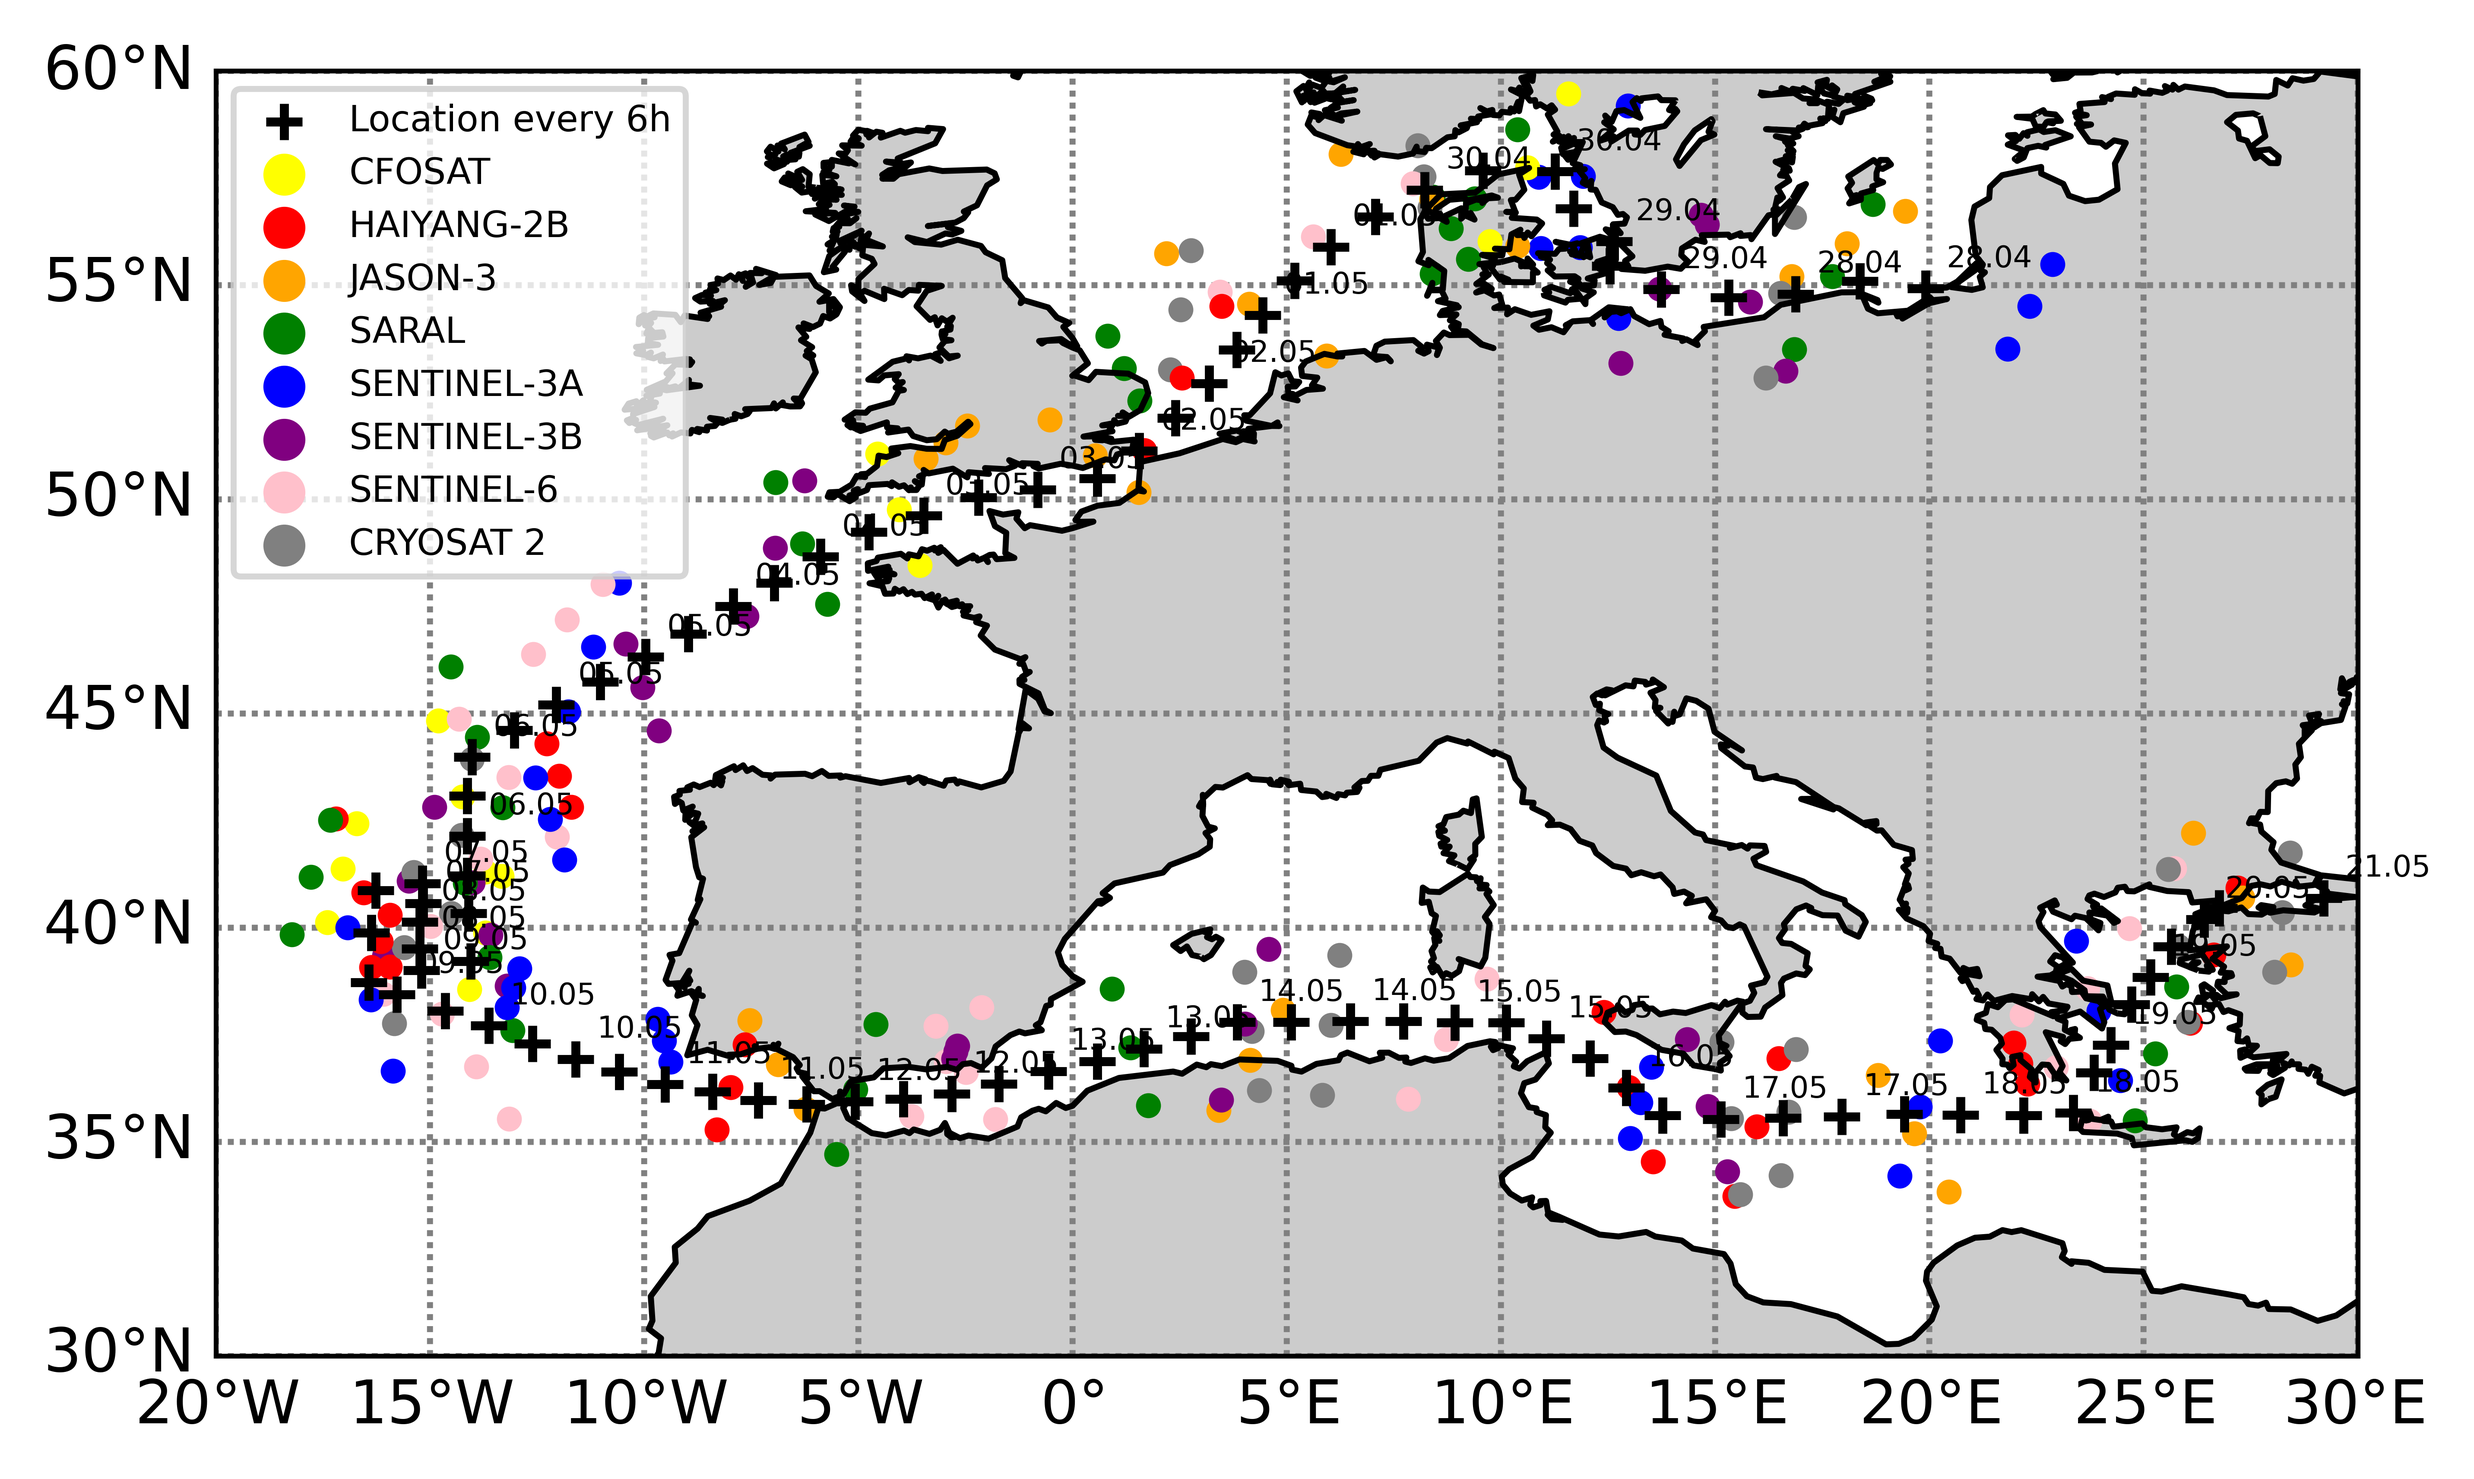
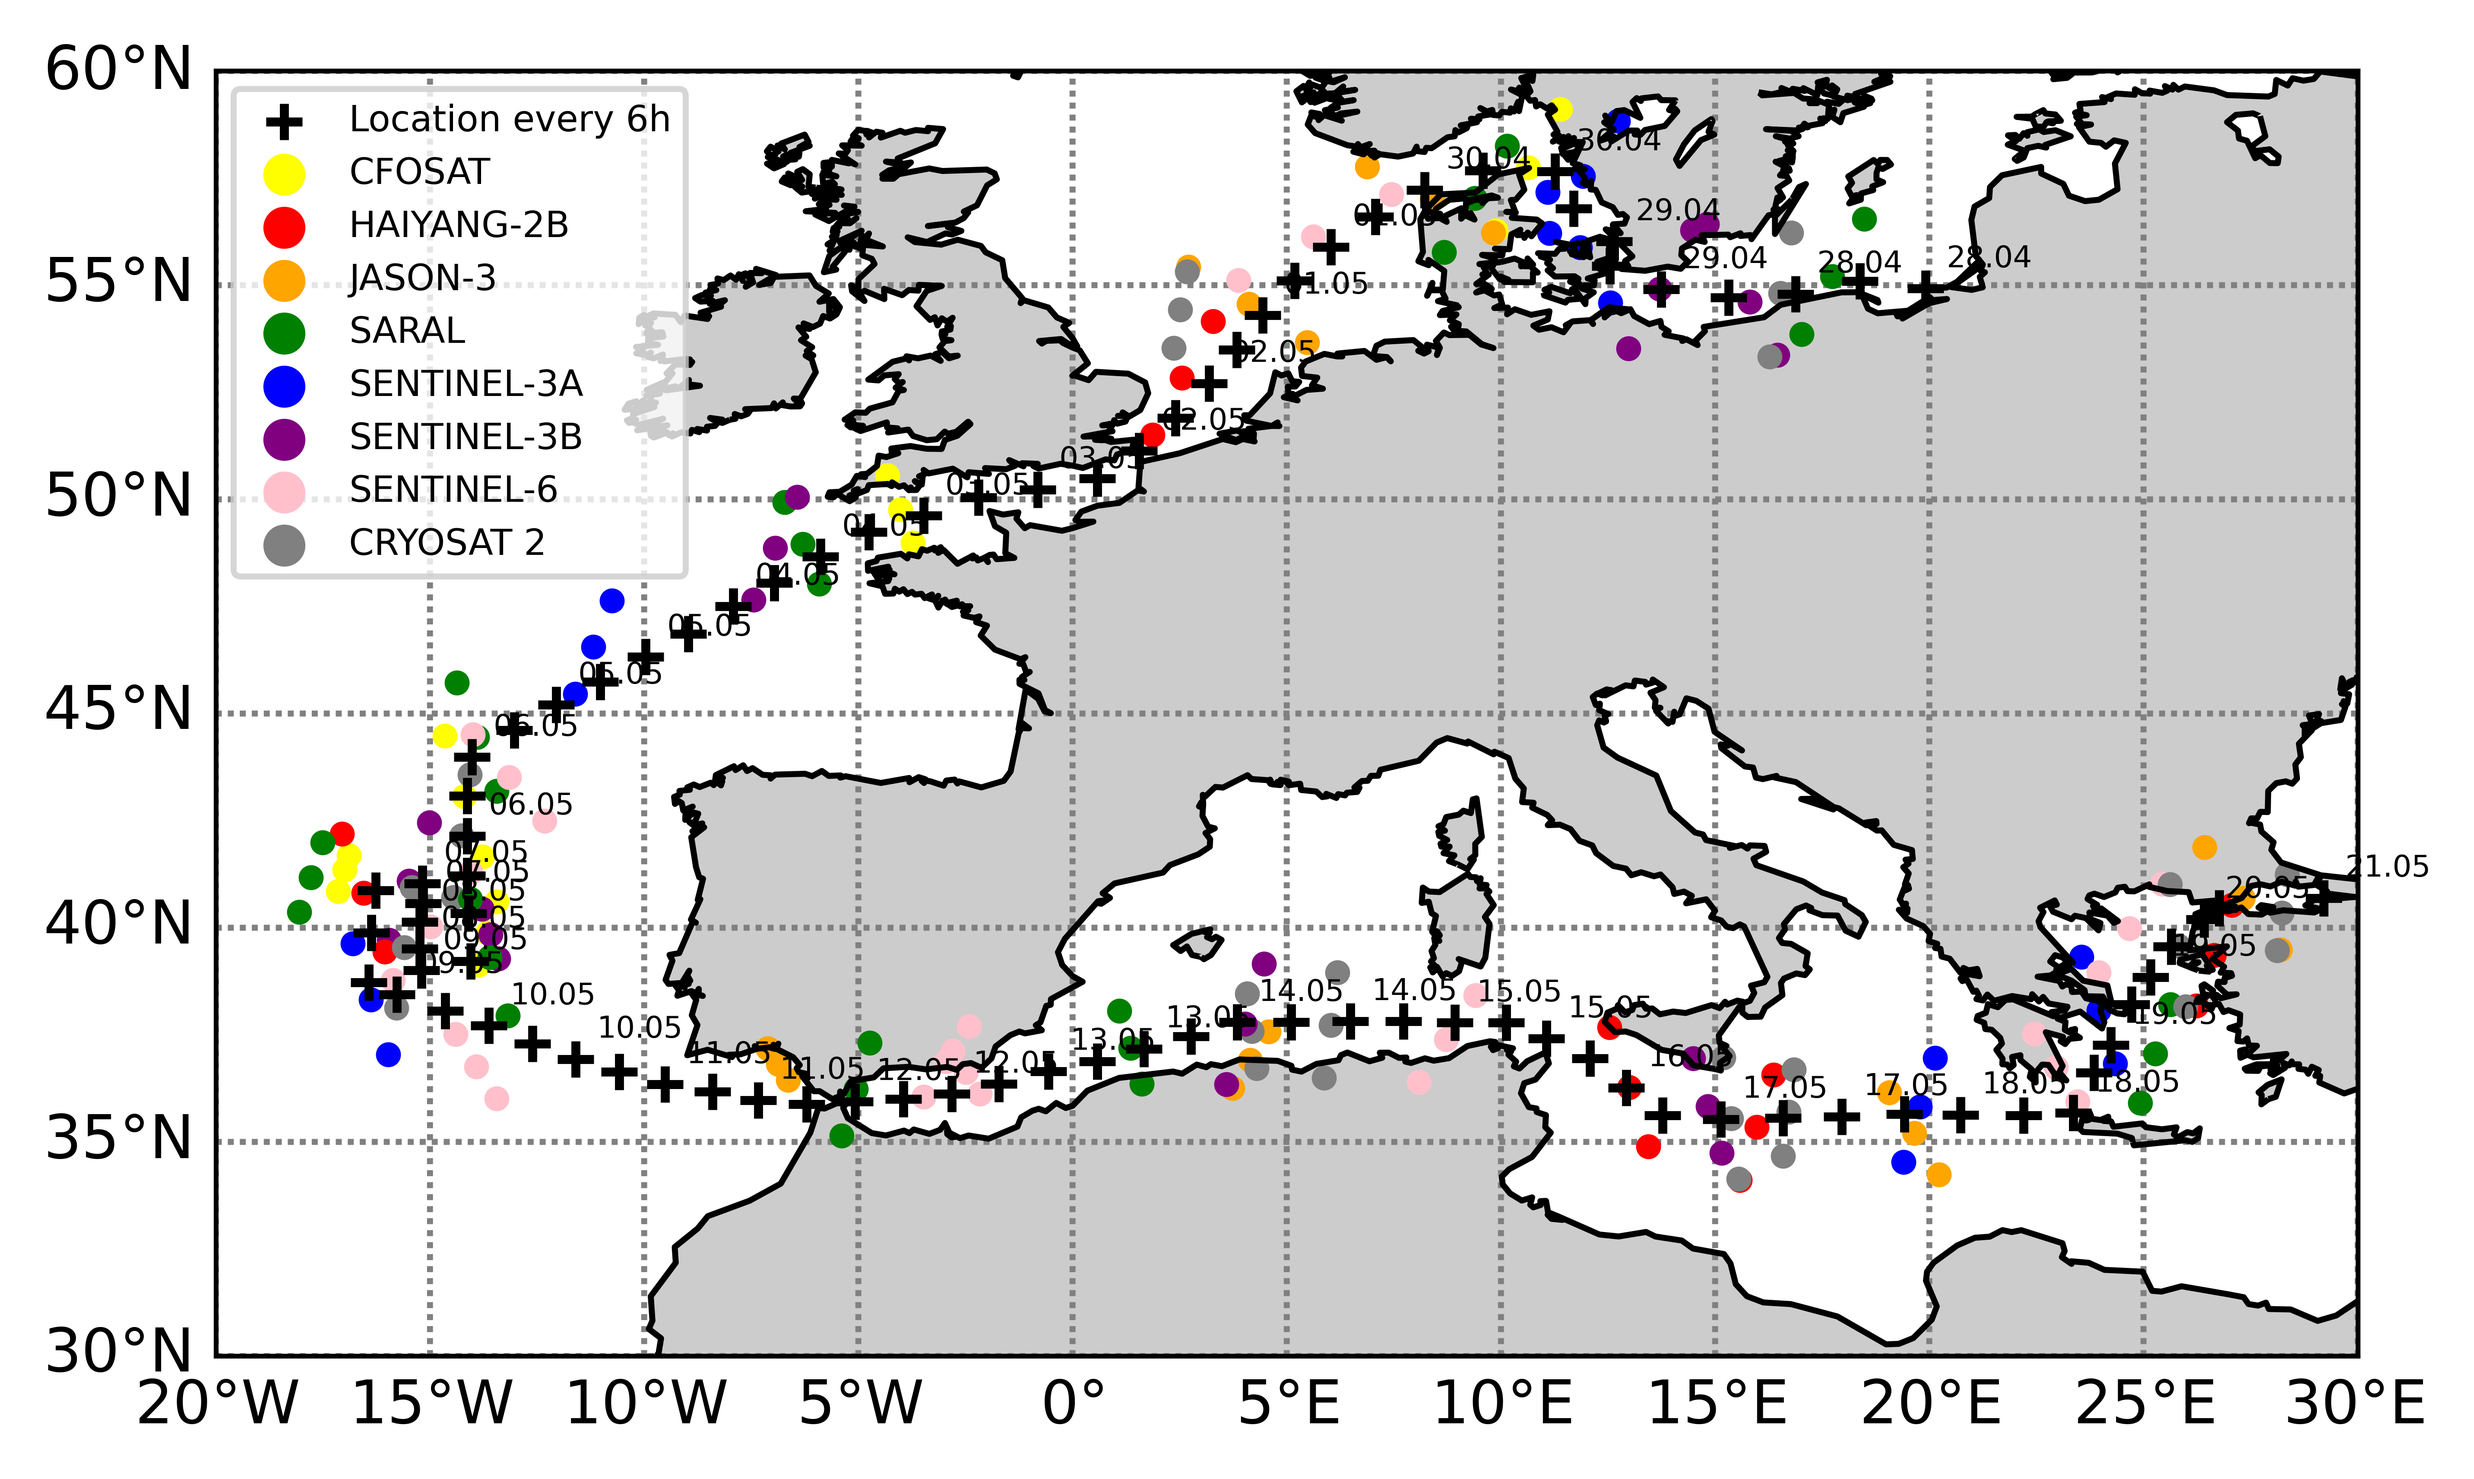
change txt data format

diff --git a/FlyForecast/forecast.py b/FlyForecast/forecast.py
@@ -11,12 +11,12 @@ from drawers import *
 from converters import *
 
 # ПЕРЕМЕННЫЕ НИЖЕ НЕОБХОДИМО ПОДОГНАТЬ ПОД СВОИ ЗАДАЧИ
+START_TIME = dt.datetime(2023, 4, 28, 8, 0, 0, tzinfo=dt.timezone.utc)  # время старта расчета
 TRACK_FILE = "track/asv55.kml"
 SCHEDULE_FILE = "schedule_asv55.xlsx"
 SPEED = 9  # предполагаемая скорость в узлах
-START_TIME = dt.datetime(2023, 4, 28, 8, 0, 0, tzinfo=dt.timezone.utc)  # время старта расчета
 END_TIME = 23  # количество суток расчета
-MAX_DISTANCE = 200  # максимальное расстояние по поверхности между треком судна и спутника в километрах
+MAX_DISTANCE = 160  # максимальное расстояние по поверхности между треком судна и спутника в километрах
 
 plt.figure()
 # для отрисовки карты нужно указать крайние наносимые координаты
@@ -41,19 +41,24 @@ if KML_OR_TXT:
     track_df = pd.DataFrame(geo_df)["geometry"]
     station_pos_ll = np.array([wgs84.latlon(track_df[i].y, track_df[i].x) for i in range(track_df.shape[0] - 1)])
     track_time = calc_time(track_df, START_TIME, speed=SPEED)
+    draw_coords(map, track_lat=[ll.latitude.degrees for ll in station_pos_ll],
+                track_lon=[ll.longitude.degrees for ll in station_pos_ll], track_buoy=np.ones(len(station_pos_ll)),
+                color1='white', color2='black', track_time=track_time)
 
 else:
     # загрузка координат из txt, который мы забили руками
-    station_pos_ = np.loadtxt("track/chain_east.txt", delimiter=' ')
-    station_pos = np.zeros((station_pos_.shape[0], 2))
-    station_pos[:, 0] = (station_pos_[:, 0] + station_pos_[:, 1] / 60)
-    station_pos[:, 1] = (station_pos_[:, 2] + station_pos_[:, 3] / 60)
+    df = pd.read_csv(TRACK_FILE, sep=" ")
+    station_pos = np.zeros((df.shape[0], 2))
+    station_pos[:, 0] = np.sign(df["lat_deg"].to_numpy()) * (
+            np.abs(df["lat_deg"].to_numpy()) + df["lat_min"].to_numpy() / 60)
+    station_pos[:, 1] = np.sign(df["lon_deg"].to_numpy()) * (
+            np.abs(df["lon_deg"].to_numpy()) + df["lon_min"].to_numpy() / 60)
     station_pos_ll = np.array([wgs84.latlon(ll[0], ll[1]) for ll in station_pos])
 
-# отрисовка станций
-draw_coords(map, track_lat=[ll.latitude.degrees for ll in station_pos_ll],
-            track_lon=[ll.longitude.degrees for ll in station_pos_ll], track_buoy=np.ones(len(station_pos_ll)),
-            color1='white', color2='black', track_time=track_time)
+    # отрисовка станций
+    draw_coords(map, track_lat=[ll.latitude.degrees for ll in station_pos_ll],
+                track_lon=[ll.longitude.degrees for ll in station_pos_ll], track_buoy=np.ones(len(station_pos_ll)),
+                color1='white', color2='black')  # , track_time=track_time
 colors = ['yellow', 'red', 'orange', 'green', 'blue', 'purple', 'pink', 'grey']
 color_rgd = ['FFFF00', 'FF0000', 'FF8000', '009900', '0080FF', '7F00FF', 'FFCCFF', 'C0C0C0']
 
@@ -68,8 +73,12 @@ for n in range(station_pos_ll.shape[0] - 1):  # цикл по станциям
     res_list.append([])
 
     if not KML_OR_TXT:
-        time1 = ts.from_datetime(START_TIME)
-        time2 = ts.from_datetime(START_TIME + dt.timedelta(days=END_TIME))
+        time1 = dt.datetime.strptime(df["date_time"][n], '%Y-%m-%d_%H-%M')
+        time1 = time1.replace(tzinfo=dt.timezone.utc)
+        time1 = ts.from_datetime(time1)
+        time2 = dt.datetime.strptime(df["date_time"][n + 1], '%Y-%m-%d_%H-%M')
+        time2 = time2.replace(tzinfo=dt.timezone.utc)
+        time2 = ts.from_datetime(time2)
     else:
         time1 = ts.from_datetime(track_time[n])
         time2 = ts.from_datetime(track_time[n + 1])
@@ -102,8 +111,9 @@ for n in range(station_pos_ll.shape[0] - 1):  # цикл по станциям
 
     res_list[n] = sorted(res_list[n], key=lambda x: x['time'])
 
-res_sheet = prepare_sheet(START_TIME, END_TIME)
-convert_list(SCHEDULE_FILE, res_sheet, res_list)
+if KML_OR_TXT:
+    res_sheet = prepare_sheet(START_TIME, END_TIME)
+    convert_list(SCHEDULE_FILE, res_sheet, res_list)
 
 # отрисовка легенды
 for i in range(len(sat_names)):

diff --git a/src/drawers.py b/src/drawers.py
@@ -25,7 +25,7 @@ def draw_grid(m: Basemap, lat_step, lon_step):
 
 
 def draw_coords(m: Basemap, track_lat: list, track_lon: list, track_buoy: np.ndarray, color1: str,
-                color2: str, track_time=None):
+                color2: str, track_time=[-1]):
     """
     Отрисовывает трек на карте
     :param m: карта
@@ -37,12 +37,13 @@ def draw_coords(m: Basemap, track_lat: list, track_lon: list, track_buoy: np.nda
     """
     xpt, ypt = m(track_lon * track_buoy, track_lat * track_buoy)
     m.scatter(xpt, ypt, color=color2, label='Location every 6h', zorder=10, marker='+')
-    for i in range(len(track_time)):
-        if i % 2 == 0:
-            x, y = m(track_lon[i] + 0.5, track_lat[i] + 0.5)
-        # else:
-        #     x, y = m(track_lon[i] - 0.5, track_lat[i] - 0.5)
-            plt.text(x, y, track_time[i].date().strftime("%d.%m"), fontdict={'size': 5})
+    if track_time[0] != -1:
+        for i in range(len(track_time)):
+            if i % 2 == 0:
+                x, y = m(track_lon[i] + 0.5, track_lat[i] + 0.5)
+                # else:
+                #     x, y = m(track_lon[i] - 0.5, track_lat[i] - 0.5)
+                plt.text(x, y, track_time[i].date().strftime("%d.%m"), fontdict={'size': 5})
     # xpt, ypt = m(track_lon, track_lat)
     # m.scatter(xpt, ypt, color=color1, label='Satellite mission:', alpha=0.)
 

diff --git a/src/converters.py b/src/converters.py
@@ -90,9 +90,12 @@ def prepare_sheet(start, nums):
 
 
 def convert_list(name_sheet, sheet, list):
-    curr_date = list[0][0]['date']
+    st = 0
+    while len(list[st]) == 0:
+        st += 1
+    curr_date = list[st][0]['date']
     k = 0
-    for i in range(len(list)):
+    for i in range(st, len(list)):
         if len(list[i]) != 0:
             if curr_date != list[i][0]['date']:
                 curr_date = list[i][0]['date']
@@ -115,6 +118,5 @@ def convert_list(name_sheet, sheet, list):
             for j in range(len(list[i])):
                 k += 1
                 ws[str(alhpabet[k] + str(d))].fill = PatternFill(patternType='solid', fgColor=list[i][j]['color'])
-
 
     wb.save(name_sheet)
